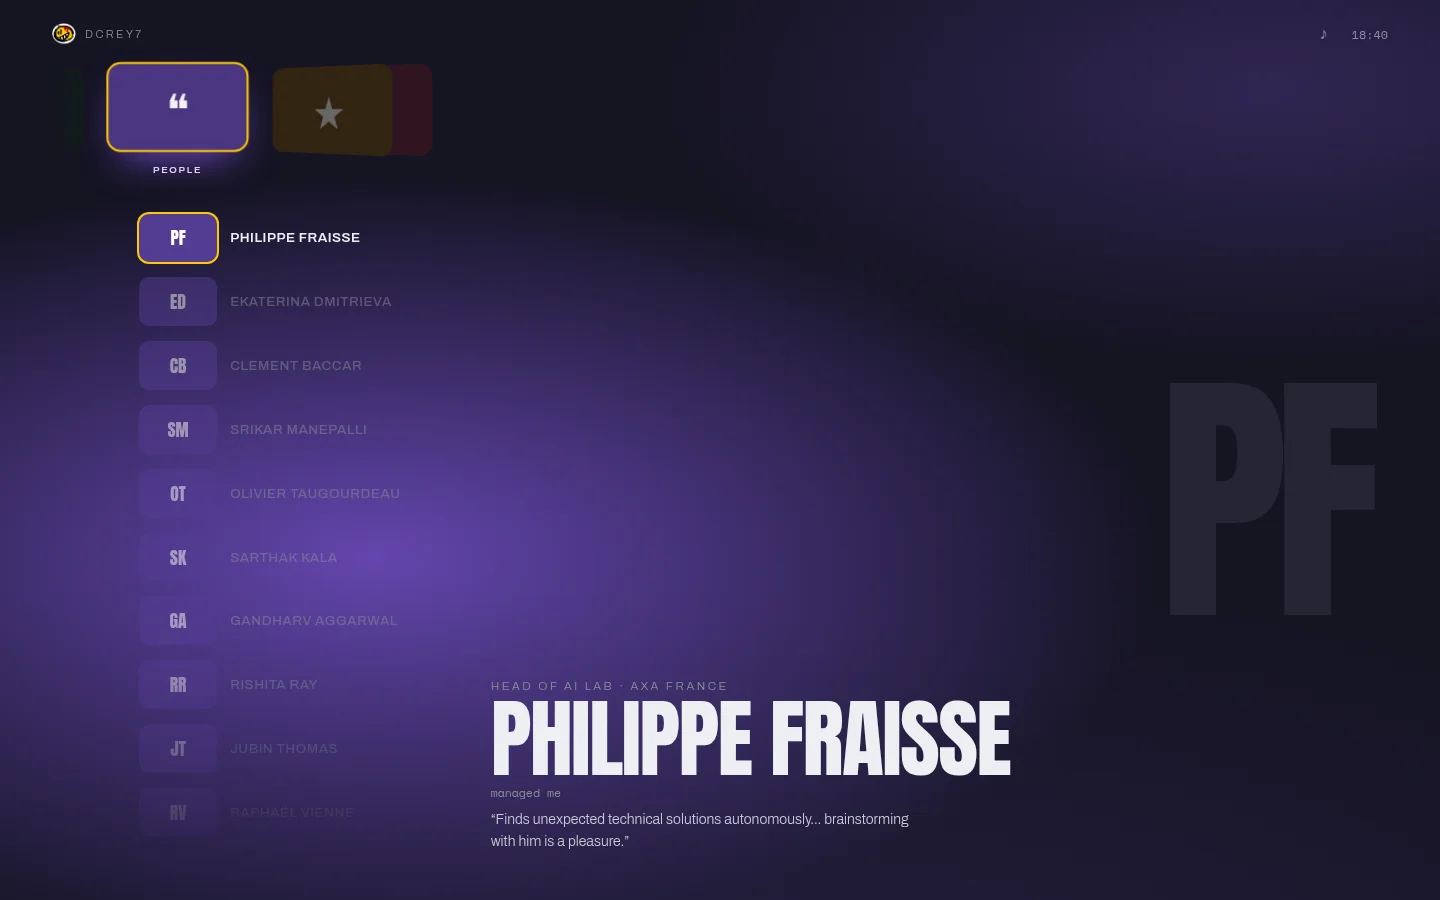
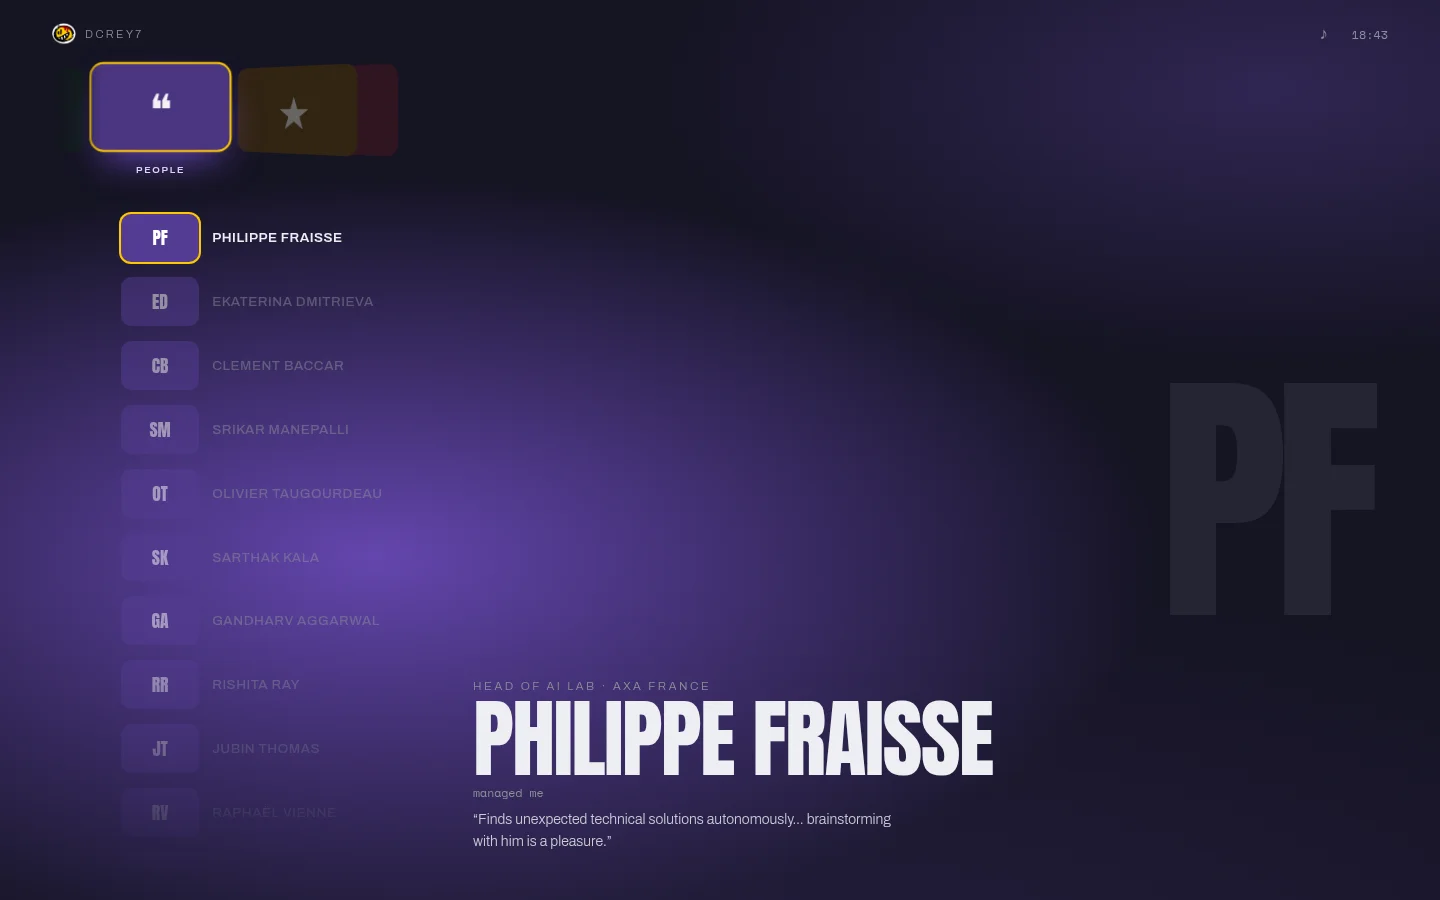
drop the clearance - the deck is continuous, sides tuck flush against the selection; crosspoint = one sliver (.30 card); 49/49

diff --git a/css/main.css b/css/main.css
@@ -50,13 +50,13 @@
   --imarkw: calc(var(--imark) * 1.6);   /* item card width — same landscape
                                            ratio as the category cards  */
   --row:  calc(var(--imark) + 15px);    /* item row height             */
-  /* Coverflow deck ratios: each side card shows a .30 sliver, the selected
-     card gets .13 clearance on each side. The crosspoint is their sum — the
-     exact space one faded sliver + one clearance occupies left of the
-     selection. The deck is drawn purely with transforms over a constant
-     layout pitch (one card width), so alignment can never drift again:
-     animating layout margins was what broke it. */
-  --crossx: calc(var(--catw) * .43);
+  /* Coverflow deck: each side card shows a .30 sliver, tucked directly
+     against the selection — no clearance. The crosspoint equals one sliver,
+     the exact space the faded neighbour occupies left of the selection.
+     The deck is drawn purely with transforms over a constant layout pitch
+     (one card width), so alignment can never drift: animating layout
+     margins was what broke it. */
+  --crossx: calc(var(--catw) * .30);
 
   --ease:      cubic-bezier(.22, .61, .36, 1);
   --ease-back: cubic-bezier(.34, 1.28, .64, 1);

diff --git a/js/xmb.js b/js/xmb.js
@@ -235,7 +235,7 @@ export function initXmb() {
        so the crosspoint stays exact — animating layout margins did not. */
     const total = barEl.children.length;
     const catw = barEl.children[0] ? barEl.children[0].offsetWidth : 0;
-    const KEEP = catw * .30, CLEAR = catw * .13;
+    const KEEP = catw * .30, CLEAR = 0;   /* no clearance — a continuous deck */
     [...barEl.children].forEach((el, n) => {
       const d = n - catI, k = Math.abs(d), dir = Math.sign(d);
       el.classList.toggle('is-on', d === 0);
